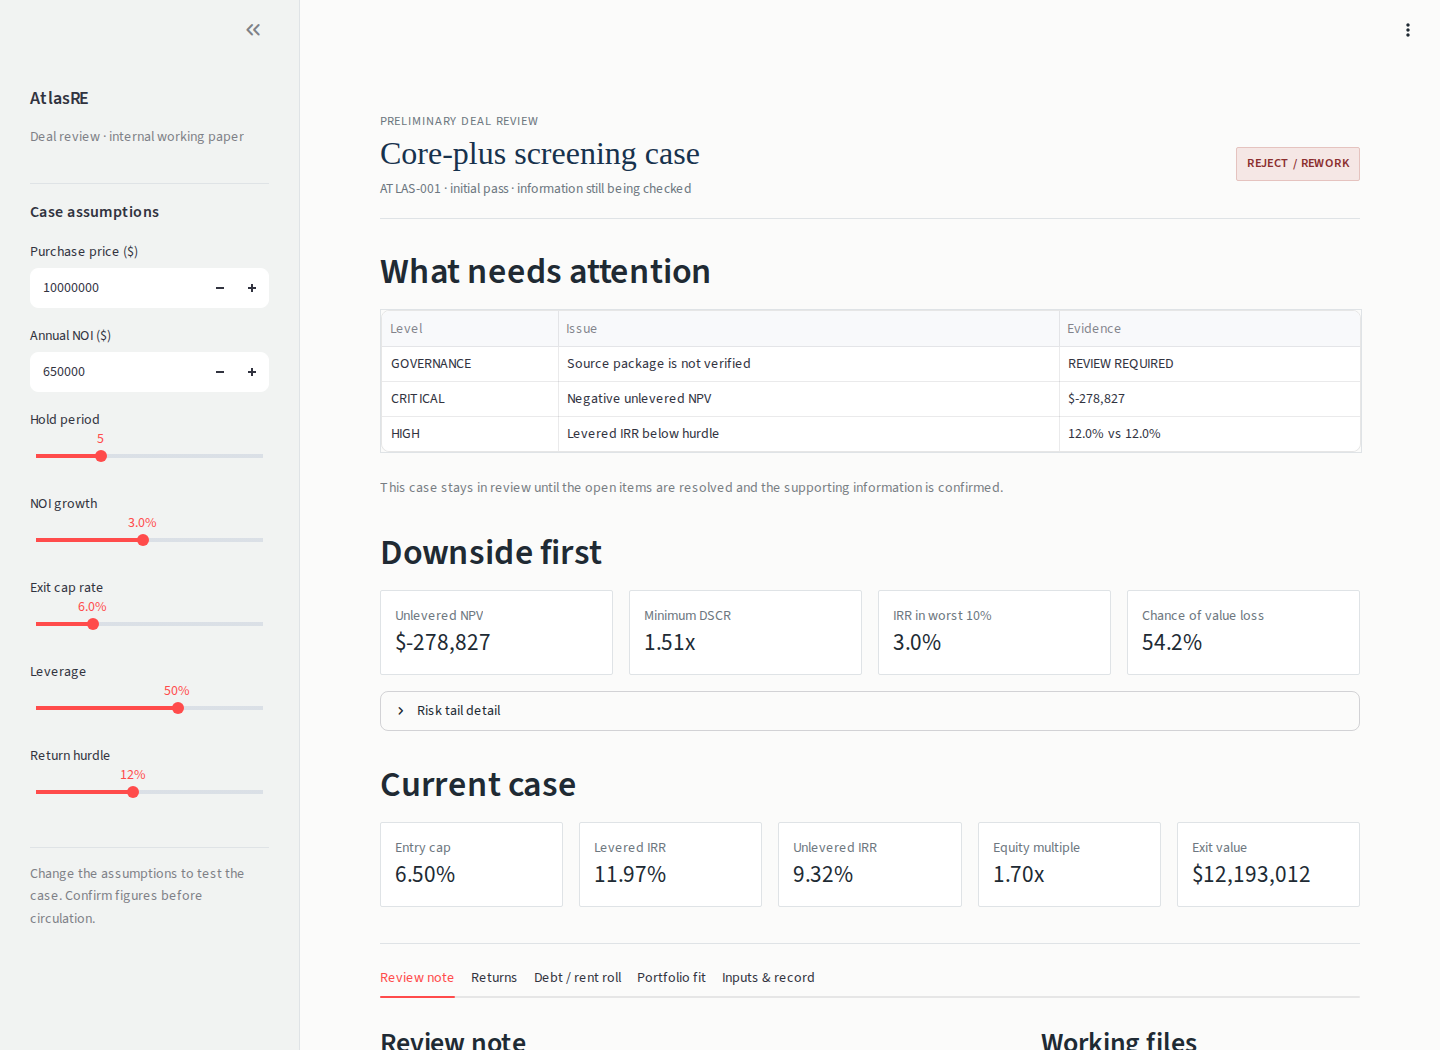
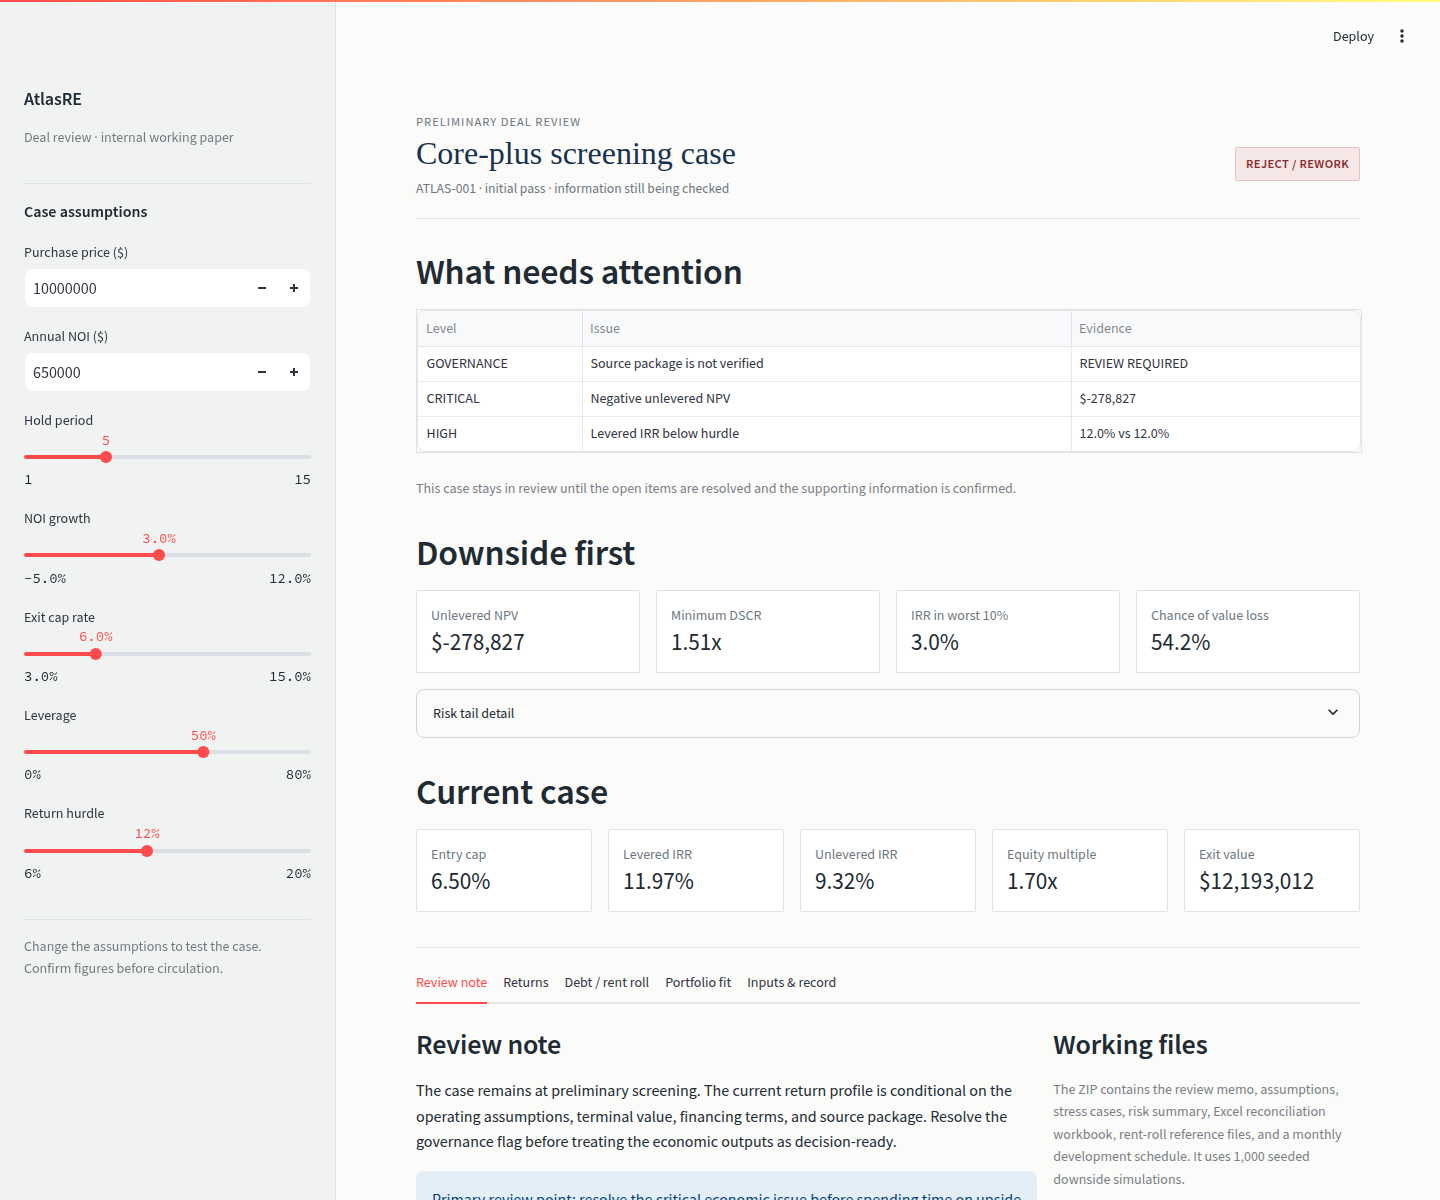
Add review package progress feedback

diff --git a/dashboard.py b/dashboard.py
@@ -13,6 +13,7 @@ from src.ic_workflow import DealCase, compare_deals, generate_ic_memo, screen_ca
 from src.lease import LeaseUnderwritingInputs, illustrative_rent_roll, lease_summary, underwrite_with_lease_roll
 from src.portfolio import portfolio_allocation, portfolio_risk_view, portfolio_snapshot
 from src.presentation import fraction_from_percent
+from src.reconciliation import build_reconciliation_workbook
 
 ROOT = Path(__file__).resolve().parent
 
@@ -52,8 +53,18 @@ def run_risk_case(deal: DealInputs, hurdle: float) -> tuple[pd.DataFrame, dict[s
 
 
 @st.cache_data(show_spinner=False)
-def build_download(deal: DealInputs) -> bytes:
-    return screening_package_zip(deal, simulations=1_000)
+def build_download(deal: DealInputs, hurdle_rate: float) -> bytes:
+    return screening_package_zip(deal, simulations=1_000, hurdle_rate=hurdle_rate)
+
+
+@st.cache_data(show_spinner=False)
+def build_excel_download(deal: DealInputs, hurdle_rate: float) -> bytes:
+    return build_reconciliation_workbook(deal, hurdle_rate=hurdle_rate, model_version=MODEL_VERSION)
+
+
+def review_package_key(deal: DealInputs, hurdle_rate: float) -> str:
+    """Identify the complete current package input set for the session cache."""
+    return repr((deal, hurdle_rate, MODEL_VERSION, 1_000))
 
 
 with st.sidebar:
@@ -143,6 +154,7 @@ base_cols[4].metric("Exit value", f"${underwriting['exit_value']:,.0f}")
 
 st.markdown("<div class='section-rule'></div>", unsafe_allow_html=True)
 tab_screen, tab_returns, tab_debt, tab_portfolio, tab_audit = st.tabs(["Review note", "Returns", "Debt / rent roll", "Portfolio fit", "Inputs & record"])
+review_memo = generate_ic_memo(current_case, hurdle, model_version=MODEL_VERSION, risk_metrics=risk)
 
 with tab_screen:
     left, right = st.columns([2, 1])
@@ -152,14 +164,41 @@ with tab_screen:
         st.info(review_focus)
         st.markdown("### Next diligence")
         st.write("Reconcile the rent roll and operating statement. Validate the exit-cap evidence and terminal-value timing. Obtain the financing term sheet and review covenants, fees, amortization, and maturity.")
+        with st.expander("Preview review memo", expanded=False):
+            st.markdown(review_memo)
     with right:
         st.markdown("### Working files")
-        st.caption("The download contains the review memo, assumptions, stress cases, risk summary, debt schedule, and rent-roll reference files.")
+        st.caption(
+            "The ZIP contains the review memo, assumptions, stress cases, risk summary, Excel reconciliation workbook, "
+            "rent-roll reference files, and a monthly development schedule. It uses 1,000 seeded downside simulations."
+        )
+        package_key = review_package_key(base_deal, hurdle)
+        if st.session_state.get("review_package_key") not in {None, package_key}:
+            st.caption("Inputs changed after the last package was prepared. Prepare new review files before download.")
+            st.session_state.pop("review_package", None)
         if st.button("Prepare review files", use_container_width=True):
-            st.session_state["review_package"] = build_download(base_deal)
-        if "review_package" in st.session_state:
+            with st.status("Preparing review files", expanded=True) as package_status:
+                package_status.write("Validating inputs and running the seeded downside simulation.")
+                st.session_state["review_package"] = build_download(base_deal, hurdle)
+                package_status.write("Assembling the memo, schedules, and reconciliation workbook.")
+                package_status.update(label="Review files ready", state="complete", expanded=False)
+            st.session_state["review_package_key"] = package_key
+        if st.session_state.get("review_package_key") == package_key and "review_package" in st.session_state:
             st.download_button("Download review files", st.session_state["review_package"], file_name="atlasre-deal-review.zip", mime="application/zip", use_container_width=True)
-        st.download_button("Download review memo", generate_ic_memo(current_case, hurdle, model_version=MODEL_VERSION, risk_metrics=risk), file_name="atlasre-deal-review.md", mime="text/markdown", use_container_width=True)
+        st.download_button(
+            "Download Excel reconciliation",
+            build_excel_download(base_deal, hurdle),
+            file_name="atlasre-excel-reconciliation.xlsx",
+            mime="application/vnd.openxmlformats-officedocument.spreadsheetml.sheet",
+            use_container_width=True,
+        )
+        st.download_button(
+            "Download review memo",
+            review_memo,
+            file_name="atlasre-deal-review.md",
+            mime="text/markdown",
+            use_container_width=True,
+        )
 
 with tab_returns:
     st.markdown("### Stress cases")

diff --git a/scripts/capture_screenshots.py b/scripts/capture_screenshots.py
@@ -1,27 +1,50 @@
+"""Capture reproducible, 1440-pixel-wide dashboard evidence from a running Streamlit app."""
+from __future__ import annotations
+
 from pathlib import Path
 
 from playwright.sync_api import sync_playwright
 
+ROOT = Path(__file__).resolve().parents[1]
 BASE_URL = "http://127.0.0.1:8501"
-OUTPUT = Path("docs/images")
+OUTPUT = ROOT / "docs" / "images"
 OUTPUT.mkdir(parents=True, exist_ok=True)
 
-with sync_playwright() as playwright:
-    browser = playwright.chromium.launch(headless=True, executable_path="/usr/bin/chromium", args=["--no-sandbox"])
-    page = browser.new_page(viewport={"width": 1440, "height": 1050}, device_scale_factor=1)
-    page.goto(BASE_URL, wait_until="networkidle", timeout=60_000)
-    page.wait_for_timeout(2_000)
-    page.screenshot(path=OUTPUT / "decision-summary.png", full_page=True)
 
-    risk_detail = page.get_by_text("Risk tail detail")
-    if risk_detail.count():
+def capture() -> None:
+    """Capture the default illustrative dashboard and its generated working files."""
+    with sync_playwright() as playwright:
+        browser = playwright.chromium.launch(
+            headless=True,
+            executable_path="/usr/bin/chromium",
+            args=["--no-sandbox"],
+        )
+        page = browser.new_page(viewport={"width": 1440, "height": 1200}, device_scale_factor=1)
+        page.goto(BASE_URL, wait_until="networkidle", timeout=60_000)
+        page.get_by_role("heading", name="Downside first").wait_for(timeout=60_000)
+        page.screenshot(path=OUTPUT / "decision-summary.png", full_page=False)
+
+        risk_detail = page.get_by_text("Risk tail detail")
         risk_detail.click()
-    page.wait_for_timeout(500)
-    page.screenshot(path=OUTPUT / "downside-risk.png", full_page=True)
+        risk_detail.scroll_into_view_if_needed()
+        page.wait_for_timeout(300)
+        page.screenshot(path=OUTPUT / "downside-risk.png", full_page=False)
 
-    package_heading = page.get_by_text("Working files")
-    if package_heading.count():
+        package_heading = page.get_by_text("Working files")
         package_heading.scroll_into_view_if_needed()
-    page.wait_for_timeout(500)
-    page.screenshot(path=OUTPUT / "review-package.png", full_page=False)
-    browser.close()
+        page.get_by_role("button", name="Prepare review files").click()
+        page.get_by_text("Review files ready").wait_for(timeout=60_000)
+        page.wait_for_timeout(300)
+        page.screenshot(path=OUTPUT / "review-package.png", full_page=False)
+
+        preview = page.get_by_text("Preview review memo")
+        preview.click()
+        memo_title = page.get_by_role("heading", name="Investment Committee Screening Memo — Core-plus screening case")
+        memo_title.evaluate("element => element.scrollIntoView({block: 'start'})")
+        page.wait_for_timeout(300)
+        page.screenshot(path=OUTPUT / "review-memo.png", full_page=False)
+        browser.close()
+
+
+if __name__ == "__main__":
+    capture()
